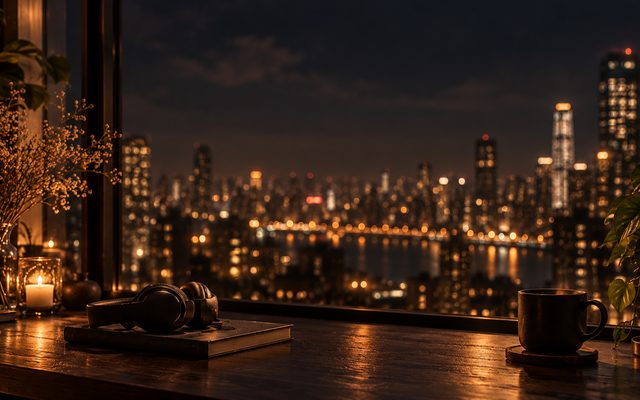
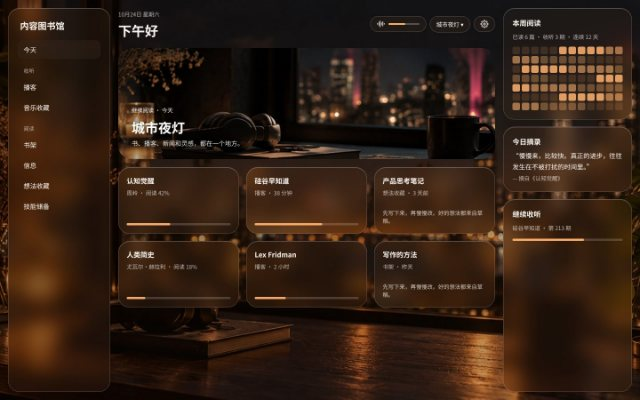
Add dashboard mockup previews for theme packs
render-mockups.js renders each pack as a dashboard (mockup.jpg) and uses
it for the store thumbnail (preview.jpg).

Claude-Session: https://claude.ai/code/session_011S6ei5dtjkwyaybrx3ra3q

diff --git a/scripts/render-mockups.js b/scripts/render-mockups.js
@@ -1,0 +1,101 @@
+// Renders a dashboard mockup for every theme pack, for the in-app store.
+//
+//   node scripts/render-mockups.js            # all packs
+//   node scripts/render-mockups.js peach-ink  # one pack
+//
+// Writes packs/<id>/mockup.jpg (1440×900, shown when a user taps 预览) and
+// packs/<id>/preview.jpg (640×400 store thumbnail), then adds "mockup" to
+// index.json and each pack.json. Requires Node with Playwright (Chromium).
+// The mockup approximates the plugin's glass styles with sample content.
+const { chromium } = require("playwright");
+const fs = require("fs");
+const path = require("path");
+
+const packsDir = path.resolve(__dirname, "..", "packs");
+const indexPath = path.join(packsDir, "index.json");
+const index = JSON.parse(fs.readFileSync(indexPath, "utf8"));
+const only = process.argv.slice(2);
+
+const esc = (s) => String(s).replace(/[&<>"]/g, (c) => ({ "&": "&amp;", "<": "&lt;", ">": "&gt;", '"': "&quot;" })[c]);
+
+function html(pack) {
+  const dir = path.join(packsDir, pack.id);
+  const vars = Object.entries(pack.palette.light).map(([k, v]) => `--cld-${k}:${v};`).join("");
+  const light = pack.scheme === "light";
+  const line = light ? "rgb(255 255 255 / 55%)" : "rgb(255 255 255 / 22%)";
+  const icon = (d) => `<svg viewBox="0 0 24 24" width="18" height="18" fill="none" stroke="currentColor" stroke-width="2" stroke-linecap="round" stroke-linejoin="round">${d}</svg>`;
+  const wave = icon('<path d="M2 10v3"/><path d="M6 6v11"/><path d="M10 3v18"/><path d="M14 8v7"/><path d="M18 5v13"/><path d="M22 10v3"/>');
+  const gear = icon('<circle cx="12" cy="12" r="3"/><path d="M19.4 15a1.65 1.65 0 0 0 .33 1.82l.06.06a2 2 0 1 1-2.83 2.83l-.06-.06a1.65 1.65 0 0 0-1.82-.33 1.65 1.65 0 0 0-1 1.51V21a2 2 0 1 1-4 0v-.09a1.65 1.65 0 0 0-1-1.51 1.65 1.65 0 0 0-1.82.33l-.06.06a2 2 0 1 1-2.83-2.83l.06-.06a1.65 1.65 0 0 0 .33-1.82 1.65 1.65 0 0 0-1.51-1H3a2 2 0 1 1 0-4h.09a1.65 1.65 0 0 0 1.51-1 1.65 1.65 0 0 0-.33-1.82l-.06-.06a2 2 0 1 1 2.83-2.83l.06.06a1.65 1.65 0 0 0 1.82.33H9a1.65 1.65 0 0 0 1-1.51V3a2 2 0 1 1 4 0v.09a1.65 1.65 0 0 0 1 1.51 1.65 1.65 0 0 0 1.82-.33l.06-.06a2 2 0 1 1 2.83 2.83l-.06.06a1.65 1.65 0 0 0-.33 1.82V9c.26.6.85 1 1.51 1H21a2 2 0 1 1 0 4h-.09c-.66 0-1.25.4-1.51 1z"/>');
+  const cards = [
+    ["认知觉醒", "周岭 · 阅读 42%", 42], ["硅谷早知道", "播客 · 38 分钟", 65], ["产品思考笔记", "想法收藏 · 3 天前", 0],
+    ["人类简史", "尤瓦尔·赫拉利 · 阅读 18%", 18], ["Lex Fridman", "播客 · 2 小时", 30], ["写作的方法", "书架 · 昨天", 0],
+  ].map(([t, s, p]) => `<div class="g card"><b>${t}</b><small>${s}</small>${p ? `<div class="bar"><i style="width:${p}%"></i></div>` : `<p class="ex">先写下来，再慢慢改。好的想法都来自草稿。</p>`}</div>`).join("");
+  const days = Array.from({ length: 84 }, (_, i) => `<i style="opacity:${[0.15, 0.35, 0.6, 0.9][(i * 7 + (i % 5)) % 4]}"></i>`).join("");
+  return `<!doctype html><html><head><meta charset="utf-8"><style>
+  *{box-sizing:border-box} body{margin:0;font-family:"PingFang SC","Noto Sans CJK SC","Noto Sans SC",sans-serif}
+  .root{${vars}--cld-glass:color-mix(in srgb,var(--cld-card) 54%,transparent);--cld-a:color-mix(in srgb,var(--cld-tone-a) 44%,var(--cld-card));
+    width:1440px;height:900px;padding:18px;display:grid;grid-template-columns:230px 1fr 290px;gap:18px;color:var(--cld-ink);color-scheme:${light ? "light" : "dark"};
+    background-color:color-mix(in srgb,var(--cld-bg) 58%,transparent);
+    background-image:${pack.overlay || "none"},url("file://${dir}/${pack.background}");background-size:cover;background-position:center top}
+  .g{background:color-mix(in srgb,var(--cld-card) 58%,transparent);border:1px solid ${line};border-radius:26px;backdrop-filter:blur(20px) saturate(130%);
+    box-shadow:inset 0 1px 0 ${line},0 12px 30px rgb(0 0 0/14%);padding:20px}
+  small{opacity:.68;font-size:12.5px} .nav b{font-size:20px;display:block;margin:4px 6px 18px}
+  .nav div{padding:11px 14px;border-radius:13px;margin:3px 0;font-size:14.5px}.nav .on{background:color-mix(in srgb,var(--cld-card) 85%,transparent)}
+  .nav .sec{font-size:12px;opacity:.6;padding:14px 14px 4px}
+  main{display:grid;grid-template-rows:auto 250px 1fr;gap:18px;min-width:0}
+  .top{display:flex;justify-content:space-between;align-items:center}.top h1{margin:4px 0 0;font-size:30px}
+  .acts{display:flex;gap:8px;align-items:center}.pill-btn{display:flex;align-items:center;gap:8px;padding:8px 14px;border-radius:999px;background:color-mix(in srgb,var(--cld-card) 70%,transparent);border:1px solid ${line};font-size:13px}
+  .vol{width:70px;height:4px;border-radius:4px;background:color-mix(in srgb,var(--cld-ink) 25%,transparent);position:relative}.vol:after{content:"";position:absolute;inset:0 45% 0 0;border-radius:4px;background:var(--cld-accent)}
+  .hero{border-radius:30px;background:url("file://${dir}/${pack.banner}") center/cover;position:relative;overflow:hidden}
+  .hero:before{content:"";position:absolute;inset:0;background:linear-gradient(90deg,rgb(0 0 0/38%),transparent 60%)}
+  .hero div{position:absolute;left:30px;bottom:26px;color:#fff;text-shadow:0 2px 14px rgb(0 0 0/45%)}.hero h2{margin:6px 0 4px;font-size:30px}.hero p{margin:0;opacity:.85;font-size:14px}
+  .grid{display:grid;grid-template-columns:repeat(3,1fr);grid-auto-rows:150px;gap:16px}
+  .card{display:flex;flex-direction:column;gap:7px;padding:18px}.card b{font-size:15.5px}
+  .bar{margin-top:auto;height:5px;border-radius:5px;background:color-mix(in srgb,var(--cld-ink) 18%,transparent)}.bar i{display:block;height:100%;border-radius:5px;background:var(--cld-accent)}
+  .ex{margin:auto 0 0;font-size:12.5px;opacity:.75;line-height:1.5}
+  aside.right{display:flex;flex-direction:column;gap:16px}.right h3{margin:0 0 6px;font-size:16px}
+  .heat{display:grid;grid-template-columns:repeat(12,1fr);gap:4px;margin-top:12px}.heat i{aspect-ratio:1;border-radius:4px;background:var(--cld-accent)}
+  .quote{font-size:14.5px;line-height:1.7;margin:8px 0 0}
+  </style></head><body><div class="root">
+  <aside class="g nav"><b>内容图书馆</b><div class="on">今天</div><div class="sec">收听</div><div>播客</div><div>音乐收藏</div><div class="sec">阅读</div><div>书架</div><div>信息</div><div>想法收藏</div><div>技能储备</div></aside>
+  <main><div class="top"><div><small>10月24日 星期六</small><h1>下午好</h1></div>
+    <div class="acts">${pack.ambient ? `<div class="pill-btn">${wave}<span class="vol"></span></div>` : ""}<div class="pill-btn">${esc(pack.name)} ▾</div><div class="pill-btn">${gear}</div></div></div>
+    <section class="hero"><div><small style="opacity:.9">继续阅读 · 今天</small><h2>${esc(pack.name)}</h2><p>书、播客、新闻和灵感，都在一个地方。</p></div></section>
+    <div class="grid">${cards}</div></main>
+  <aside class="right"><div class="g"><h3>本周阅读</h3><small>已读 6 篇 · 收听 3 期 · 连续 12 天</small><div class="heat">${days}</div></div>
+    <div class="g"><h3>今日摘录</h3><p class="quote">“慢慢来，比较快。真正的进步，往往发生在不被打扰的时间里。”</p><small>— 摘自《认知觉醒》</small></div>
+    <div class="g" style="flex:1"><h3>继续收听</h3><small>硅谷早知道 · 第 213 期</small><div class="bar" style="margin-top:14px"><i style="width:65%"></i></div></div></aside>
+  </div></body></html>`;
+}
+
+(async () => {
+  const browser = await chromium.launch();
+  const page = await browser.newPage({ viewport: { width: 1440, height: 900 } });
+  for (const pack of index.packs) {
+    if (only.length && !only.includes(pack.id)) continue;
+    const dir = path.join(packsDir, pack.id);
+    const file = path.join(dir, ".mockup.html");
+    fs.writeFileSync(file, html(pack));
+    await page.goto("file://" + file);
+    await page.waitForLoadState("networkidle");
+    await page.waitForTimeout(250);
+    await page.screenshot({ path: path.join(dir, "mockup.jpg"), type: "jpeg", quality: 82 });
+    // Store thumbnail: the mockup scaled to 640×400.
+    await page.setViewportSize({ width: 640, height: 400 });
+    await page.setContent(`<body style="margin:0"><img src="file://${path.join(dir, "mockup.jpg")}" style="width:640px;height:400px;display:block"></body>`);
+    await page.waitForTimeout(150);
+    await page.screenshot({ path: path.join(dir, "preview.jpg"), type: "jpeg", quality: 84 });
+    await page.setViewportSize({ width: 1440, height: 900 });
+    fs.unlinkSync(file);
+    pack.mockup = "mockup.jpg";
+    const packJson = path.join(dir, "pack.json");
+    if (fs.existsSync(packJson)) {
+      const own = JSON.parse(fs.readFileSync(packJson, "utf8"));
+      own.mockup = "mockup.jpg";
+      fs.writeFileSync(packJson, JSON.stringify(own, null, 2) + "\n");
+    }
+    console.log("rendered", pack.id);
+  }
+  fs.writeFileSync(indexPath, JSON.stringify(index, null, 2) + "\n");
+  await browser.close();
+})();
